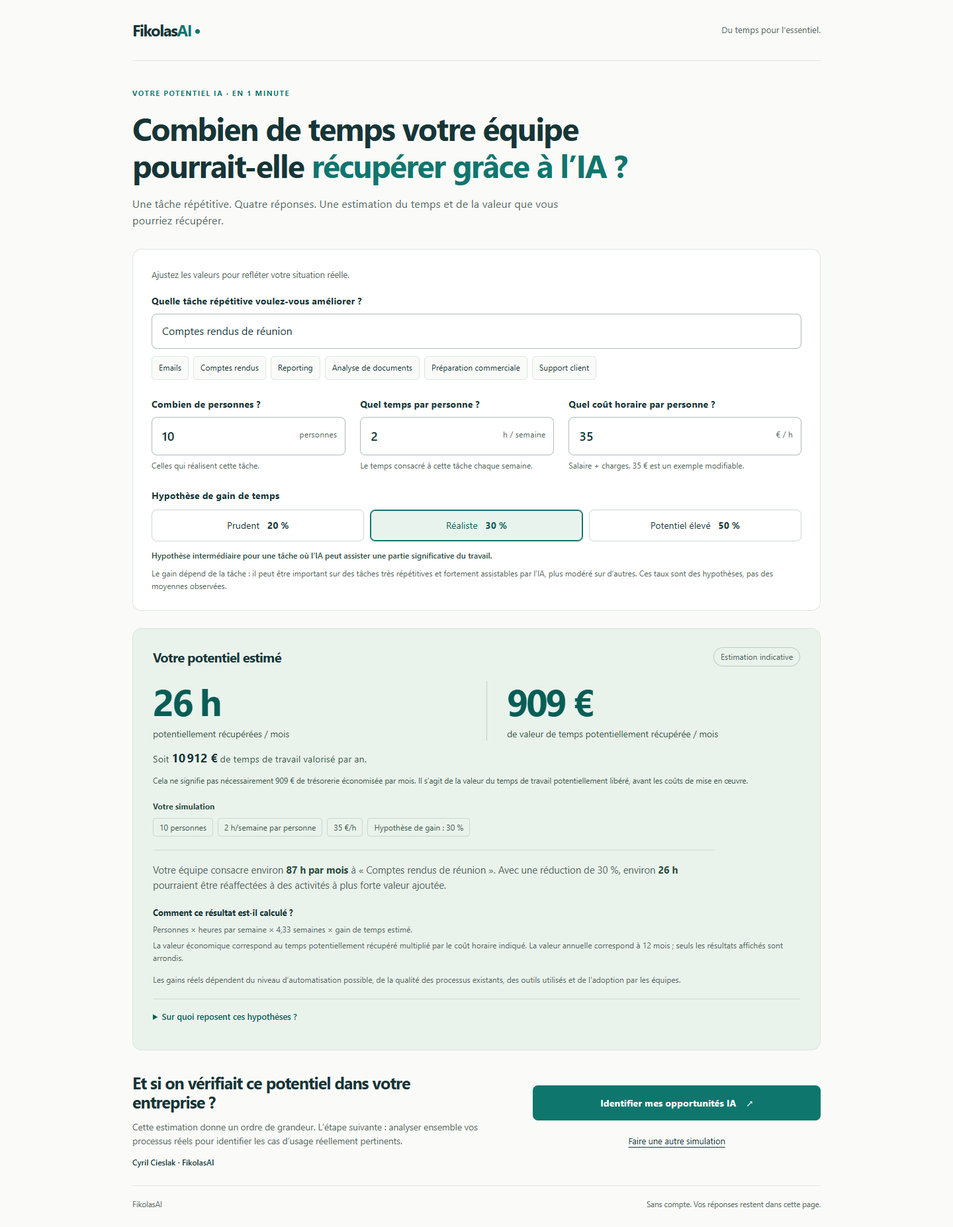
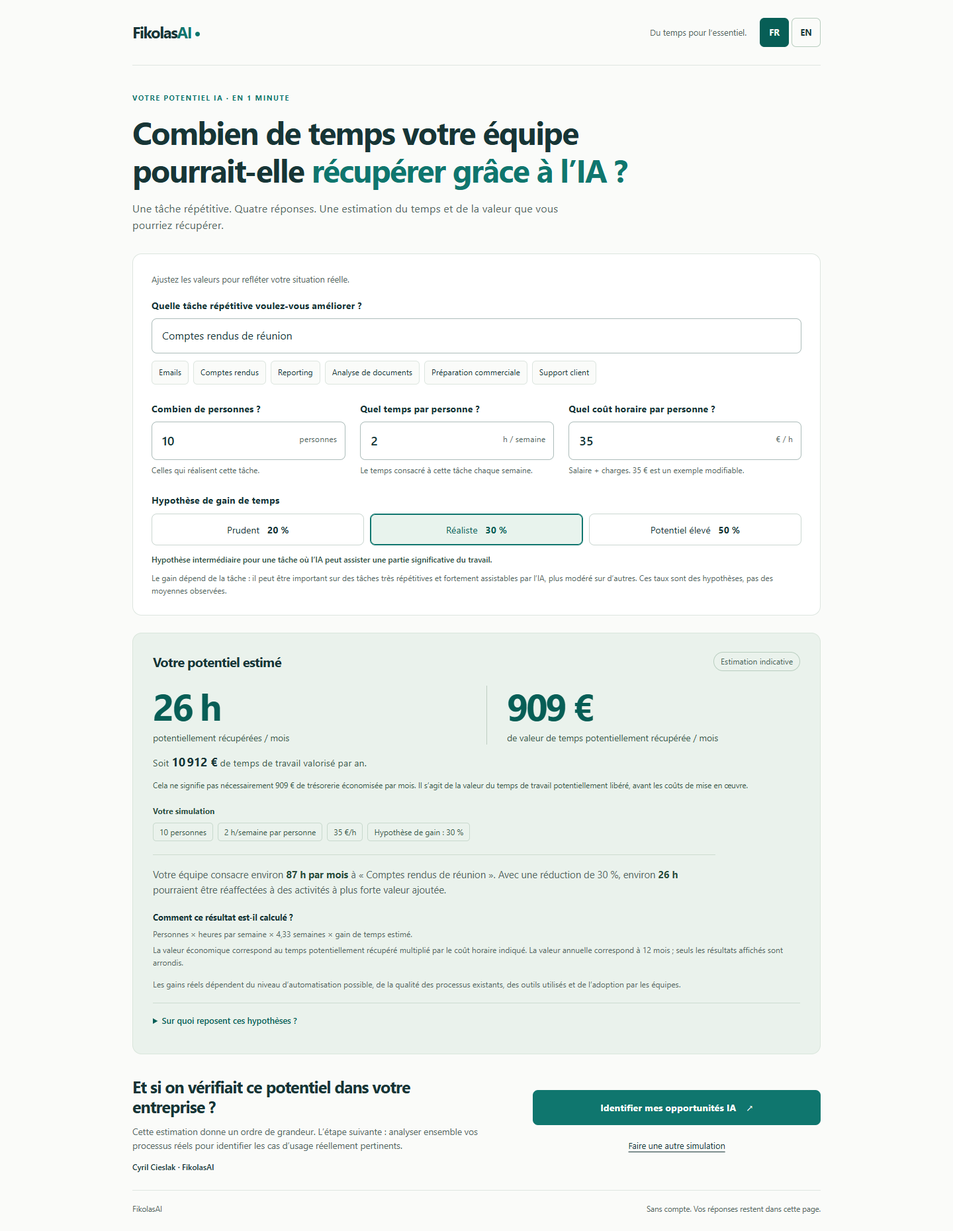
Add French and English calculator with persistent language selection

diff --git a/src/App.tsx b/src/App.tsx
@@ -1,14 +1,28 @@
 import { useEffect, useRef, useState } from 'react';
+import { detectLanguage, rememberLanguage, translate, type Language } from './config/language';
 import { Field } from './components/Field';
 import { brand, CTA_URL, DEFAULT_GAIN, GAIN_OPTIONS, TASK_SUGGESTIONS } from './config/brand';
 import { RESEARCH_SOURCES } from './config/sources';
 import { calculateSavings, parseInput, type NumericField } from './domain/calculations';
 import { trackCalculatorStarted, trackCalculationCompleted, trackCtaClicked } from './lib/analytics';
 const initialValues = { employees: '1', hoursPerWeek: '', hourlyCost: '35' };
-const number = new Intl.NumberFormat('fr-FR', { maximumFractionDigits: 0 });
-const inputNumber = new Intl.NumberFormat('fr-FR', { maximumFractionDigits: 16 });
-function estimate(value: number, unit: string) { return `${value > 0 && value < 1 ? '< 1' : number.format(value)} ${unit}`; }
+
 export default function App() {
+  const [language, setLanguage] = useState<Language>(detectLanguage);
+  const t = (text: string) => translate(language, text);
+  const locale = language === 'fr' ? 'fr-FR' : 'en-GB';
+  const number = new Intl.NumberFormat(locale, { maximumFractionDigits: 0 });
+  const inputNumber = new Intl.NumberFormat(locale, { maximumFractionDigits: 16 });
+  function estimate(value: number, unit: string) {
+    if (value > 0 && value < 1) return language === 'en' && unit === '€' ? '< €1' : '< 1 ' + unit;
+    return language === 'en' && unit === '€' ? '€' + number.format(value) : number.format(value) + ' ' + unit;
+  }
+  function switchLanguage(next: Language) { rememberLanguage(next); setLanguage(next); }
+  useEffect(() => {
+    document.documentElement.lang = language;
+    document.title = language === 'fr' ? 'Calculateur IA : combien de temps votre entreprise peut-elle gagner ? | FikolasAI' : 'AI calculator: how much time could your team recover? | FikolasAI';
+    document.querySelector('meta[name="description"]')?.setAttribute('content', language === 'fr' ? 'Estimez en moins d’une minute combien de temps et de valeur votre équipe pourrait récupérer grâce à l’intelligence artificielle.' : 'Estimate in under a minute how much time and value your team could recover with AI. Transparent assumptions, no account needed.');
+  }, [language]);
   const [task, setTask] = useState('');
   const [values, setValues] = useState(initialValues);
   const [gain, setGain] = useState(DEFAULT_GAIN);
@@ -16,7 +30,7 @@ export default function App() {
   const taskInput = useRef<HTMLInputElement>(null);
   const started = useRef(false);
   const completed = useRef(false);
-  const parsed = { employees: parseInput(values.employees, 'employees'), hoursPerWeek: parseInput(values.hoursPerWeek, 'hoursPerWeek'), hourlyCost: parseInput(values.hourlyCost, 'hourlyCost') };
+  const parsed = { employees: parseInput(values.employees, 'employees', language), hoursPerWeek: parseInput(values.hoursPerWeek, 'hoursPerWeek', language), hourlyCost: parseInput(values.hourlyCost, 'hourlyCost', language) };
   const valid = Object.values(parsed).every(field => !field.error);
   const result = valid ? calculateSavings({ employees: parsed.employees.value, hoursPerWeek: parsed.hoursPerWeek.value, hourlyCost: parsed.hourlyCost.value, efficiencyGain: gain }) : null;
   useEffect(() => {
@@ -31,56 +45,57 @@ export default function App() {
     completed.current = false; taskInput.current?.focus();
   }
   return <>
-    <header className="site-header"><a href={brand.website} aria-label="FikolasAI, accueil">Fikolas<span>AI</span><span className="brand-dot" aria-hidden="true"/></a><span>Du temps pour l’essentiel.</span></header>
+    <header className="site-header"><a href={brand.website} aria-label={t("FikolasAI, accueil")}>Fikolas<span>AI</span><span className="brand-dot" aria-hidden="true"/></a><div className="header-tools"><span>{t("Du temps pour l’essentiel.")}</span><nav className="language-switch" aria-label="Language / Langue"><button type="button" lang="fr" aria-label="Français" aria-pressed={language === 'fr'} onClick={() => switchLanguage('fr')}>FR</button><button type="button" lang="en" aria-label="English" aria-pressed={language === 'en'} onClick={() => switchLanguage('en')}>EN</button></nav></div></header>
     <main>
-      <section className="intro" aria-labelledby="title"><p className="eyebrow">VOTRE POTENTIEL IA · EN 1 MINUTE</p>
-        <h1 id="title">Combien de temps votre équipe pourrait-elle <em>récupérer grâce à l’IA ?</em></h1>
-        <p>Une tâche répétitive. Quatre réponses. Une estimation du temps et de la valeur que vous pourriez récupérer.</p>
+      <section className="intro" aria-labelledby="title"><p className="eyebrow">{t("VOTRE POTENTIEL IA · EN 1 MINUTE")}</p>
+        <h1 id="title">{t("Combien de temps votre équipe pourrait-elle ")}<em>{t("récupérer grâce à l’IA ?")}</em></h1>
+        <p>{t("Une tâche répétitive. Quatre réponses. Une estimation du temps et de la valeur que vous pourriez récupérer.")}</p>
       </section>
-      <section className="calculator" aria-label="Votre simulation">
-        <p className="control-note">Ajustez les valeurs pour refléter votre situation réelle.</p>
-        <div className="task-field"><label htmlFor="task">Quelle tâche répétitive voulez-vous améliorer ?</label>
-          <input ref={taskInput} id="task" maxLength={120} value={task} onChange={e => setTask(e.target.value)} placeholder="Ex. : rédaction d’emails, comptes rendus…" aria-describedby="task-help"/>
-          <span id="task-help" className="sr-only">Le nom est facultatif et ne modifie pas le calcul.</span>
-          <div className="suggestions" aria-label="Suggestions de tâches">{TASK_SUGGESTIONS.map(suggestion => <button type="button" key={suggestion} aria-pressed={task === suggestion} onClick={() => setTask(suggestion)}>{suggestion}</button>)}</div>
+      <section className="calculator" aria-label={t("Votre simulation")}>
+        <p className="control-note">{t("Ajustez les valeurs pour refléter votre situation réelle.")}</p>
+        <div className="task-field"><label htmlFor="task">{t("Quelle tâche répétitive voulez-vous améliorer ?")}</label>
+          <input ref={taskInput} id="task" maxLength={120} value={task} onChange={e => setTask(e.target.value)} placeholder={t("Ex. : rédaction d’emails, comptes rendus…")} aria-describedby="task-help"/>
+          <span id="task-help" className="sr-only">{t("Le nom est facultatif et ne modifie pas le calcul.")}</span>
+          <div className="suggestions" aria-label={t("Suggestions de tâches")}>{TASK_SUGGESTIONS.map(suggestion => <button type="button" key={suggestion} aria-pressed={task === t(suggestion)} onClick={() => setTask(t(suggestion))}>{t(suggestion)}</button>)}</div>
         </div>
         <div className="fields" key={resetKey}>
-          <Field label="Combien de personnes ?" value={values.employees} onChange={value => change('employees', value)} error={parsed.employees.error} unit="personnes" placeholder="Ex. : 5" hint="Celles qui réalisent cette tâche." integer/>
-          <Field label="Quel temps par personne ?" value={values.hoursPerWeek} onChange={value => change('hoursPerWeek', value)} error={parsed.hoursPerWeek.error} unit="h / semaine" placeholder="Ex. : 3" hint="Le temps consacré à cette tâche chaque semaine."/>
-          <Field label="Quel coût horaire par personne ?" value={values.hourlyCost} onChange={value => change('hourlyCost', value)} error={parsed.hourlyCost.error} unit="€ / h" placeholder="Ex. : 35" hint="Salaire + charges. 35 € est un exemple modifiable."/>
+          <Field label={t("Combien de personnes ?")} value={values.employees} onChange={value => change('employees', value)} error={parsed.employees.error} unit={t("personnes")} placeholder={t("Ex. : 5")} hint={t("Celles qui réalisent cette tâche.")} integer/>
+          <Field label={t("Quel temps par personne ?")} value={values.hoursPerWeek} onChange={value => change('hoursPerWeek', value)} error={parsed.hoursPerWeek.error} unit={t("h / semaine")} placeholder={t("Ex. : 3")} hint={t("Le temps consacré à cette tâche chaque semaine.")}/>
+          <Field label={t("Quel coût horaire par personne ?")} value={values.hourlyCost} onChange={value => change('hourlyCost', value)} error={parsed.hourlyCost.error} unit={t("€ / h")} placeholder={t("Ex. : 35")} hint={t("Salaire + charges. 35 € est un exemple modifiable.")}/>
         </div>
-        <fieldset className="gain" aria-describedby="gain-description gain-context"><legend>Hypothèse de gain de temps</legend>
-          <div className="gain-options">{GAIN_OPTIONS.map(option => <label key={option.value}><input type="radio" name="gain" value={option.value} checked={gain === option.value} onChange={() => setGain(option.value)}/><span>{option.label} <strong>{option.value * 100} %</strong></span></label>)}</div>
-          <p id="gain-description" className="gain-description" aria-live="polite">{GAIN_OPTIONS.find(option => option.value === gain)?.description}</p>
-          <p id="gain-context">Le gain dépend de la tâche : il peut être important sur des tâches très répétitives et fortement assistables par l’IA, plus modéré sur d’autres. Ces taux sont des hypothèses, pas des moyennes observées.</p>
+        <fieldset className="gain" aria-describedby="gain-description gain-context"><legend>{t("Hypothèse de gain de temps")}</legend>
+          <div className="gain-options">{GAIN_OPTIONS.map(option => <label key={option.value}><input type="radio" name="gain" value={option.value} checked={gain === option.value} onChange={() => setGain(option.value)}/><span>{t(option.label)} <strong>{option.value * 100} %</strong></span></label>)}</div>
+          <p id="gain-description" className="gain-description" aria-live="polite">{t(GAIN_OPTIONS.find(option => option.value === gain)?.description ?? '')}</p>
+          <p id="gain-context">{t("Le gain dépend de la tâche : il peut être important sur des tâches très répétitives et fortement assistables par l’IA, plus modéré sur d’autres. Ces taux sont des hypothèses, pas des moyennes observées.")}</p>
         </fieldset>
       </section>
       <section className={`results ${result ? 'ready' : ''}`} aria-labelledby="result-title">
-        <div className="result-heading"><h2 id="result-title">Votre potentiel estimé</h2><span className="estimate-badge">Estimation indicative</span></div>
+        <div className="result-heading"><h2 id="result-title">{t("Votre potentiel estimé")}</h2><span className="estimate-badge">{t("Estimation indicative")}</span></div>
         <div aria-live="polite" aria-atomic="true">
           {result ? <>
-            <div className="metrics"><div><strong data-testid="hours">{estimate(result.monthlyHoursSaved, 'h')}</strong><span>potentiellement récupérées / mois</span></div><div><strong data-testid="monthly">{estimate(result.monthlyValueSaved, '€')}</strong><span>de valeur de temps potentiellement récupérée / mois</span></div></div>
-            <p className="annual">Soit <strong data-testid="annual">{estimate(result.annualValueSaved, '€')}</strong> de temps de travail valorisé par an.</p>
-            <p className="capacity-note">Cela ne signifie pas nécessairement {estimate(result.monthlyValueSaved, '€')} de trésorerie économisée par mois. Il s’agit de la valeur du temps de travail potentiellement libéré, avant les coûts de mise en œuvre.</p>
-            <div className="simulation-summary" role="group" aria-label="Données utilisées">
-              <p>Votre simulation</p>
-              <ul><li>{inputNumber.format(parsed.employees.value)} {parsed.employees.value === 1 ? 'personne' : 'personnes'}</li><li>{inputNumber.format(parsed.hoursPerWeek.value)} h/semaine par personne</li><li>{inputNumber.format(parsed.hourlyCost.value)} €/h</li><li>Hypothèse de gain : {gain * 100} %</li></ul>
+            <div className="metrics"><div><strong data-testid="hours">{estimate(result.monthlyHoursSaved, 'h')}</strong><span>{t("potentiellement récupérées / mois")}</span></div><div><strong data-testid="monthly">{estimate(result.monthlyValueSaved, '€')}</strong><span>{t("de valeur de temps potentiellement récupérée / mois")}</span></div></div>
+            <p className="annual">{t("Soit ")}<strong data-testid="annual">{estimate(result.annualValueSaved, '€')}</strong>{t(" de temps de travail valorisé par an.")}</p>
+            <p className="capacity-note">{t("Cela ne signifie pas nécessairement ")}{estimate(result.monthlyValueSaved, '€')}{t(" de trésorerie économisée par mois. Il s’agit de la valeur du temps de travail potentiellement libéré, avant les coûts de mise en œuvre.")}</p>
+            <div className="simulation-summary" role="group" aria-label={t("Données utilisées")}>
+              <p>{t("Votre simulation")}</p>
+              <ul><li>{inputNumber.format(parsed.employees.value)} {t(parsed.employees.value === 1 ? 'personne' : 'personnes')}</li><li>{inputNumber.format(parsed.hoursPerWeek.value)}{t(" h/semaine par personne")}</li><li>{inputNumber.format(parsed.hourlyCost.value)} €/h</li><li>{t("Hypothèse de gain : ")}{gain * 100} %</li></ul>
             </div>
-            <p className="context">Votre équipe consacre environ <strong>{estimate(result.monthlyHoursCurrent, 'h')} par mois</strong> à {task.trim() ? <>« {task.trim()} »</> : 'cette tâche'}. Avec une réduction de {gain * 100} %, environ <strong>{estimate(result.monthlyHoursSaved, 'h')}</strong> pourraient être réaffectées à des activités à plus forte valeur ajoutée.</p>
-          </> : <p className="empty-result">Renseignez les trois valeurs ci-dessus pour découvrir votre potentiel. Le résultat s’actualise automatiquement.</p>}
+            <p className="context">{t("Votre équipe consacre environ ")}<strong>{estimate(result.monthlyHoursCurrent, 'h')}{t(" par mois")}</strong>{t(" à ")}{task.trim() ? <>« {task.trim()} »</> : t('cette tâche')}{t(". Avec une réduction de ")}{gain * 100}{t(" %, environ ")}<strong>{estimate(result.monthlyHoursSaved, 'h')}</strong>{t(" pourraient être réaffectées à des activités à plus forte valeur ajoutée.")}</p>
+          </> : <p className="empty-result">{t("Renseignez les trois valeurs ci-dessus pour découvrir votre potentiel. Le résultat s’actualise automatiquement.")}</p>}
         </div>
-        <div className="calculation-explanation"><h3>Comment ce résultat est-il calculé ?</h3>
-          <p>Personnes × heures par semaine × 4,33 semaines × gain de temps estimé.</p>
-          <p>La valeur économique correspond au temps potentiellement récupéré multiplié par le coût horaire indiqué. La valeur annuelle correspond à 12 mois ; seuls les résultats affichés sont arrondis.</p>
+        <div className="calculation-explanation"><h3>{t("Comment ce résultat est-il calculé ?")}</h3>
+          <p>{t("Personnes × heures par semaine × 4,33 semaines × gain de temps estimé.")}</p>
+          <p>{t("La valeur économique correspond au temps potentiellement récupéré multiplié par le coût horaire indiqué. La valeur annuelle correspond à 12 mois ; seuls les résultats affichés sont arrondis.")}</p>
         </div>
-        <p className="credibility-note">Les gains réels dépendent du niveau d’automatisation possible, de la qualité des processus existants, des outils utilisés et de l’adoption par les équipes.</p>
-        <details className="research"><summary>Sur quoi reposent ces hypothèses ?</summary>
-          <div className="research-content"><p>Les gains de productivité observés avec l’IA varient fortement selon les tâches et les métiers. Les taux de 20 %, 30 % et 50 % sont des choix de simulation : ces études ne prouvent pas un gain universel à ces niveaux. Une hausse de productivité n’équivaut pas directement à la même réduction du temps de travail.</p>
-            <ul>{RESEARCH_SOURCES.map(source => <li key={source.url}><a href={source.url} target="_blank" rel="noopener noreferrer">{source.title}<span className="sr-only"> (nouvel onglet)</span><span aria-hidden="true"> ↗</span></a><p>{source.context}</p></li>)}</ul>
+        <p className="credibility-note">{t("Les gains réels dépendent du niveau d’automatisation possible, de la qualité des processus existants, des outils utilisés et de l’adoption par les équipes.")}</p>
+        <details className="research"><summary>{t("Sur quoi reposent ces hypothèses ?")}</summary>
+          <div className="research-content"><p>{t("Les gains de productivité observés avec l’IA varient fortement selon les tâches et les métiers. Les taux de 20 %, 30 % et 50 % sont des choix de simulation : ces études ne prouvent pas un gain universel à ces niveaux. Une hausse de productivité n’équivaut pas directement à la même réduction du temps de travail.")}</p>
+            <ul>{RESEARCH_SOURCES.map(source => <li key={source.url}><a href={source.url} target="_blank" rel="noopener noreferrer">{t(source.title)}<span className="sr-only">{t(" (nouvel onglet)")}</span><span aria-hidden="true"> ↗</span></a><p>{t(source.context)}</p></li>)}</ul>
           </div>
         </details>
       </section>
-      <section className="contact" aria-labelledby="contact-title"><div><h2 id="contact-title">Et si on vérifiait ce potentiel dans votre entreprise ?</h2><p>Cette estimation donne un ordre de grandeur. L’étape suivante : analyser ensemble vos processus réels pour identifier les cas d’usage réellement pertinents.</p><p className="signature">Cyril Cieslak · FikolasAI</p></div><div className="contact-actions"><a className="primary" href={CTA_URL} onClick={trackCtaClicked}>Identifier mes opportunités IA <span aria-hidden="true">↗</span></a><button type="button" className="reset" onClick={reset}>Faire une autre simulation</button></div></section>
-    </main><footer>FikolasAI <span>Sans compte. Vos réponses restent dans cette page.</span></footer>
+      <section className="contact" aria-labelledby="contact-title"><div><h2 id="contact-title">{t("Et si on vérifiait ce potentiel dans votre entreprise ?")}</h2><p>{t("Cette estimation donne un ordre de grandeur. L’étape suivante : analyser ensemble vos processus réels pour identifier les cas d’usage réellement pertinents.")}</p><p className="signature">Cyril Cieslak · FikolasAI</p></div><div className="contact-actions"><a className="primary" href={language === 'en' && CTA_URL.startsWith('mailto:') ? CTA_URL.replace(/([?&]subject=)[^&]*/, '$1Explore%20my%20AI%20opportunities') : CTA_URL} onClick={trackCtaClicked}>{t("Identifier mes opportunités IA")}<span aria-hidden="true">↗</span></a><button type="button" className="reset" onClick={reset}>{t("Faire une autre simulation")}</button></div></section>
+    </main><footer>FikolasAI <span>{t("Sans compte. Vos réponses restent dans cette page.")}</span></footer>
   </>;
 }
+

diff --git a/src/config/language.ts b/src/config/language.ts
@@ -1,0 +1,73 @@
+export type Language = 'fr' | 'en';
+export const english: Record<string, string> = {
+  'FikolasAI, accueil': 'FikolasAI, home',
+  'Du temps pour l’essentiel.': 'More time for what matters.',
+  'VOTRE POTENTIEL IA · EN 1 MINUTE': 'YOUR AI POTENTIAL · IN 1 MINUTE',
+  'Combien de temps votre équipe pourrait-elle ': 'How much time could your team ',
+  'récupérer grâce à l’IA ?': 'get back with AI?',
+  'Une tâche répétitive. Quatre réponses. Une estimation du temps et de la valeur que vous pourriez récupérer.': 'One repetitive task. Four answers. An estimate of the time and value you could recover.',
+  'Votre simulation': 'Your simulation',
+  'Ajustez les valeurs pour refléter votre situation réelle.': 'Adjust the values to reflect your own situation.',
+  'Quelle tâche répétitive voulez-vous améliorer ?': 'Which repetitive task would you like to improve?',
+  'Ex. : rédaction d’emails, comptes rendus…': 'E.g. writing emails, meeting notes…',
+  'Le nom est facultatif et ne modifie pas le calcul.': 'The task name is optional and does not affect the calculation.',
+  'Suggestions de tâches': 'Task suggestions',
+  'Emails': 'Emails', 'Comptes rendus': 'Meeting notes', 'Reporting': 'Reporting',
+  'Analyse de documents': 'Document analysis', 'Préparation commerciale': 'Sales preparation', 'Support client': 'Customer support',
+  'Combien de personnes ?': 'How many people?', 'personnes': 'people', 'personne': 'person',
+  'Ex. : 5': 'E.g. 5', 'Celles qui réalisent cette tâche.': 'People who regularly perform this task.',
+  'Quel temps par personne ?': 'How much time per person?', 'h / semaine': 'h / week', 'Ex. : 3': 'E.g. 3',
+  'Le temps consacré à cette tâche chaque semaine.': 'Time spent on this task each week.',
+  'Quel coût horaire par personne ?': 'What is the hourly cost per person?', 'Ex. : 35': 'E.g. 35',
+  'Salaire + charges. 35 € est un exemple modifiable.': 'Salary + employer costs. €35 is an editable example.',
+  'Hypothèse de gain de temps': 'Assumed time saving',
+  'Prudent': 'Conservative', 'Réaliste': 'Realistic', 'Potentiel élevé': 'High potential',
+  'Hypothèse prudente pour une première estimation.': 'A conservative assumption for an initial estimate.',
+  'Hypothèse intermédiaire pour une tâche où l’IA peut assister une partie significative du travail.': 'A middle-range assumption for a task where AI can assist with a significant part of the work.',
+  'Hypothèse haute, surtout pertinente pour des tâches répétitives et fortement automatisables.': 'A high assumption, most relevant to repetitive tasks with strong automation potential.',
+  'Le gain dépend de la tâche : il peut être important sur des tâches très répétitives et fortement assistables par l’IA, plus modéré sur d’autres. Ces taux sont des hypothèses, pas des moyennes observées.': 'Savings depend on the task: they may be substantial for highly repetitive work well suited to AI assistance, and more modest for other tasks. These rates are assumptions, not observed averages.',
+  'Votre potentiel estimé': 'Your estimated potential', 'Estimation indicative': 'Indicative estimate',
+  'potentiellement récupérées / mois': 'potentially recovered / month',
+  'de valeur de temps potentiellement récupérée / mois': 'in potential value of recovered time / month',
+  'Soit ': 'Equivalent to ', ' de temps de travail valorisé par an.': ' in working-time value per year.',
+  'Cela ne signifie pas nécessairement ': 'This does not necessarily mean ',
+  ' de trésorerie économisée par mois. Il s’agit de la valeur du temps de travail potentiellement libéré, avant les coûts de mise en œuvre.': ' in cash savings per month. It is the value of working time potentially freed up, before implementation costs.',
+  'Données utilisées': 'Inputs used', ' h/semaine par personne': ' h/week per person', 'Hypothèse de gain : ': 'Assumed saving: ',
+  'Votre équipe consacre environ ': 'Your team currently spends around ', ' par mois': ' per month', ' à ': ' on ',
+  'cette tâche': 'this task', '. Avec une réduction de ': '. With a reduction of ', ' %, environ ': '%, around ',
+  ' pourraient être réaffectées à des activités à plus forte valeur ajoutée.': ' could be redirected towards higher-value activities.',
+  'Renseignez les trois valeurs ci-dessus pour découvrir votre potentiel. Le résultat s’actualise automatiquement.': 'Enter the three values above to discover your potential. Results update automatically.',
+  'Comment ce résultat est-il calculé ?': 'How is this result calculated?',
+  'Personnes × heures par semaine × 4,33 semaines × gain de temps estimé.': 'People × hours per week × 4.33 weeks × assumed time saving.',
+  'La valeur économique correspond au temps potentiellement récupéré multiplié par le coût horaire indiqué. La valeur annuelle correspond à 12 mois ; seuls les résultats affichés sont arrondis.': 'The economic value is the time potentially recovered multiplied by the hourly cost entered. The annual value covers 12 months; only displayed results are rounded.',
+  'Les gains réels dépendent du niveau d’automatisation possible, de la qualité des processus existants, des outils utilisés et de l’adoption par les équipes.': 'Actual savings depend on what can be automated, the quality of existing processes, the tools used and team adoption.',
+  'Sur quoi reposent ces hypothèses ?': 'What informs these assumptions?',
+  'Les gains de productivité observés avec l’IA varient fortement selon les tâches et les métiers. Les taux de 20 %, 30 % et 50 % sont des choix de simulation : ces études ne prouvent pas un gain universel à ces niveaux. Une hausse de productivité n’équivaut pas directement à la même réduction du temps de travail.': 'Observed AI productivity gains vary widely across tasks and occupations. The 20%, 30% and 50% rates are simulation choices: these studies do not establish universal gains at those levels. A productivity increase does not directly translate into an equal reduction in working time.',
+  ' (nouvel onglet)': ' (new tab)',
+  'NBER · Assistance IA dans le support client': 'NBER · AI assistance in customer support',
+  'Generative AI at Work (2023). Des effets différents selon l’expérience des agents, dans une entreprise de support client.': 'Generative AI at Work (2023). Effects varied with agent experience within one customer-support company.',
+  'Harvard / BCG · Travail de consultants': 'Harvard / BCG · Consultants’ work',
+  'Étude de 2023 : des améliorations sur certaines tâches, mais aussi des erreurs plus fréquentes sur une tâche au-delà des capacités de l’IA.': '2023 study: improvements on some tasks, but also more frequent errors on a task beyond the AI’s capabilities.',
+  'Microsoft Research · Premiers travaux sur Copilot': 'Microsoft Research · Early Copilot research',
+  'Rapport de 2023 (PDF, en anglais), réalisé par l’éditeur : premiers résultats sur des tâches ciblées, sans mesurer la productivité globale de tous les métiers.': '2023 report (PDF, in English), produced by the vendor: early findings on selected tasks, not a measure of overall productivity across all occupations.',
+  'Et si on vérifiait ce potentiel dans votre entreprise ?': 'What if we explored this potential in your business?',
+  'Cette estimation donne un ordre de grandeur. L’étape suivante : analyser ensemble vos processus réels pour identifier les cas d’usage réellement pertinents.': 'This estimate gives you a sense of scale. The next step: look at your actual processes together to identify the use cases that make sense for your business.',
+  'Identifier mes opportunités IA': 'Explore my AI opportunities',
+  'Faire une autre simulation': 'Start another simulation',
+  'Sans compte. Vos réponses restent dans cette page.': 'No account needed. Your answers stay on this page.',
+  'Renseignez ce champ pour voir votre estimation.': 'Complete this field to see your estimate.',
+  'Saisissez un nombre supérieur à 0.': 'Enter a number greater than 0.',
+  'Saisissez un nombre entier de personnes.': 'Enter a whole number of people.',
+};
+export function translate(language: Language, text: string) { return language === 'en' ? english[text] ?? text : text; }
+export function detectLanguage(): Language {
+  const query = new URLSearchParams(window.location.search).get('lang');
+  if (query === 'fr' || query === 'en') return query;
+  try { const saved = localStorage.getItem('fikolasai:language'); if (saved === 'fr' || saved === 'en') return saved; } catch { /* Storage may be disabled. */ }
+  return navigator.language.toLowerCase().startsWith('en') ? 'en' : 'fr';
+}
+export function rememberLanguage(language: Language) {
+  const url = new URL(window.location.href); url.searchParams.set('lang', language);
+  window.history.replaceState(null, '', url);
+  try { localStorage.setItem('fikolasai:language', language); } catch { /* Preference still works during this visit. */ }
+}

diff --git a/tests/e2e/calculator.spec.ts b/tests/e2e/calculator.spec.ts
@@ -53,6 +53,8 @@ test('erreurs locales, virgules, petits montants et grandes valeurs', async ({ p
 test('navigation au clavier et sélection native des hypothèses', async ({ page }) => {
   await page.goto('./');
   await page.keyboard.press('Tab'); await expect(page.getByRole('link', { name: 'FikolasAI, accueil' })).toBeFocused();
+  await page.keyboard.press('Tab'); await expect(page.getByRole('button', { name: 'Français', exact: true })).toBeFocused();
+  await page.keyboard.press('Tab'); await expect(page.getByRole('button', { name: 'English', exact: true })).toBeFocused();
   await page.keyboard.press('Tab'); await expect(page.getByLabel('Quelle tâche répétitive voulez-vous améliorer ?')).toBeFocused();
   await page.keyboard.press('Tab'); await expect(page.getByRole('button', { name: 'Emails', exact: true })).toBeFocused();
   await page.keyboard.press('Enter'); await expect(page.getByLabel('Quelle tâche répétitive voulez-vous améliorer ?')).toHaveValue('Emails');
@@ -116,4 +118,49 @@ test('réassurance cohérente avec la saisie et sources accessibles à la demand
   await page.getByLabel('Quel temps par personne ?').fill('');
   await expect(summary).toHaveCount(0);
   await expect(page.locator('.capacity-note')).toHaveCount(0);
+});
+
+test('anglais complet, changement sans perte, préférence et lien partageable', async ({ page }) => {
+  await page.goto('./'); await example(page);
+  await page.getByRole('button', { name: 'English', exact: true }).click();
+  await expect(page.locator('html')).toHaveAttribute('lang', 'en');
+  await expect(page.getByLabel('Which repetitive task would you like to improve?')).toHaveValue('Comptes rendus de réunion');
+  await expect(page.getByTestId('monthly')).toHaveText('€909');
+  await expect(page.getByTestId('annual')).toHaveText('€10,912');
+  await expect(page.locator('.capacity-note')).toContainText('€909 in cash savings');
+  await expect(page.getByRole('group', { name: 'Inputs used' })).toContainText('2 h/week per person');
+  await expect(page.getByRole('link', { name: 'Explore my AI opportunities' })).toHaveAttribute('href', /subject=Explore/);
+  await page.getByLabel('How much time per person?').fill('169');
+  await page.getByLabel('How much time per person?').press('Tab');
+  await expect(page.getByText('Maximum: 168 hours per week.')).toBeVisible();
+  await page.getByRole('button', { name: 'Français', exact: true }).click();
+  await expect(page.getByText('Maximum : 168 heures par semaine.')).toBeVisible();
+  await page.goto('./?lang=en');
+  await expect(page.locator('html')).toHaveAttribute('lang', 'en');
+  await page.getByRole('button', { name: 'English', exact: true }).click();
+  await page.goto('./');
+  await expect(page.locator('html')).toHaveAttribute('lang', 'en');
+  await page.getByRole('button', { name: 'Start another simulation' }).click();
+  await expect(page.locator('html')).toHaveAttribute('lang', 'en');
+});
+
+for (const lang of ['fr', 'en']) for (const width of [360, 390]) {
+  test(`bilingue ${lang} ${width}px`, async ({ page }) => {
+    await page.setViewportSize({ width, height: 900 });
+    await page.goto(`./?lang=${lang}`);
+    await page.locator('.fields input').nth(1).fill('2');
+    await page.locator('summary').click();
+    expect(await page.evaluate(() => document.documentElement.scrollWidth <= innerWidth)).toBe(true);
+    await page.screenshot({ path: `docs/images/bilingual-${lang}-${width}.png`, fullPage: true });
+  });
+}
+test.describe('langue du navigateur', () => {
+  test.use({ locale: 'en-US' });
+  test('anglais automatique et priorité au lien français', async ({ page }) => {
+    await page.goto('./');
+    await expect(page.locator('html')).toHaveAttribute('lang', 'en');
+    await expect(page.getByRole('heading', { level: 1 })).toContainText('get back with AI?');
+    await page.goto('./?lang=fr');
+    await expect(page.locator('html')).toHaveAttribute('lang', 'fr');
+  });
 });

diff --git a/src/domain/calculations.ts b/src/domain/calculations.ts
@@ -1,8 +1,9 @@
+import { translate, type Language } from '../config/language';
 export const WEEKS_PER_MONTH = 4.33;
 export const limits = { employees: 100_000, hoursPerWeek: 168, hourlyCost: 100_000 } as const;
 export type NumericField = keyof typeof limits;
 export type SavingsInput = Record<NumericField, number> & { efficiencyGain: number };
-export function parseInput(value: string, field: NumericField): { value: number; error?: string } {
+export function parseInput(value: string, field: NumericField, language: Language = 'fr'): { value: number; error?: string } {
   const text = value.trim();
   const valueNumber = /^\d+(?:[.,]\d+)?$/.test(text) ? Number(text.replace(',', '.')) : NaN;
   let error: string | undefined;
@@ -10,7 +11,8 @@ export function parseInput(value: string, field: NumericField): { value: number;
   else if (!Number.isFinite(valueNumber) || valueNumber <= 0) error = 'Saisissez un nombre supérieur à 0.';
   else if (field === 'employees' && !Number.isInteger(valueNumber)) error = 'Saisissez un nombre entier de personnes.';
   else if (valueNumber > limits[field]) error = `Maximum : ${limits[field].toLocaleString('fr-FR')}${field === 'hoursPerWeek' ? ' heures par semaine' : field === 'employees' ? ' personnes' : ' € par heure'}.`;
-  return { value: valueNumber, error };
+  if (valueNumber > limits[field] && error?.startsWith('Maximum') && language === 'en') error = `Maximum: ${limits[field].toLocaleString('en-GB')}${field === 'hoursPerWeek' ? ' hours per week' : field === 'employees' ? ' people' : ' euros per hour'}.`;
+  return { value: valueNumber, error: error ? translate(language, error) : undefined };
 }
 /** efficiencyGain is a fraction from 0 to 1. Never round intermediate results. */
 export function calculateSavings(input: SavingsInput) {
@@ -23,3 +25,4 @@ export function calculateSavings(input: SavingsInput) {
   const monthlyValueSaved = monthlyHoursSaved * input.hourlyCost;
   return { monthlyHoursCurrent, monthlyHoursSaved, monthlyValueSaved, annualValueSaved: monthlyValueSaved * 12 };
 }
+

diff --git a/playwright.config.ts b/playwright.config.ts
@@ -1,12 +1,13 @@
 import { defineConfig } from '@playwright/test';
 const basePath = process.env.E2E_BASE_PATH || '/fikolasai-gains-ia/';
-const baseURL = `http://127.0.0.1:4173${basePath}`;
+const port = process.env.E2E_PORT || '4173';
+const baseURL = `http://127.0.0.1:${port}${basePath}`;
 export default defineConfig({
   testDir: './tests/e2e', fullyParallel: false, workers: 1, timeout: 60_000,
   reporter: [['list'], ['html', { open: 'never' }]],
-  use: { baseURL, viewport: { width: 1440, height: 1000 },
+  use: { baseURL, locale: 'fr-FR', viewport: { width: 1440, height: 1000 },
     launchOptions: process.env.PLAYWRIGHT_CHROME_PATH ? { executablePath: process.env.PLAYWRIGHT_CHROME_PATH } : {},
     trace: 'retain-on-failure', screenshot: 'only-on-failure' },
-  webServer: { command: 'node node_modules/vite/bin/vite.js preview --host 127.0.0.1 --port 4173 --strictPort', env: { VITE_BASE_PATH: basePath }, url: baseURL, reuseExistingServer: !process.env.CI },
+  webServer: { command: `node node_modules/vite/bin/vite.js preview --host 127.0.0.1 --port ${port} --strictPort`, env: { VITE_BASE_PATH: basePath }, url: baseURL, reuseExistingServer: !process.env.CI },
 });
 

diff --git a/src/styles.css b/src/styles.css
@@ -563,3 +563,10 @@ footer>span {
 @media(max-width: 760px) {
   .gain-options span { height: 100%; }
 }
+.header-tools { display: flex; align-items: center; gap: 20px; }
+.header-tools > span { font-size: .8rem; color: #526762; }
+.language-switch { display: flex; gap: 4px; }
+.language-switch button { min-width: 44px; min-height: 44px; border: 1px solid #b8cdbf; border-radius: 7px; background: transparent; font-size: .8rem; font-weight: 650; }
+.language-switch button[aria-pressed=true] { color: #fff; background: #075e56; border-color: #075e56; }
+.language-switch button:hover { background: #e3eee7; color: #075e56; }
+@media(max-width: 600px) { .header-tools > span { display: none; } }

diff --git a/README.md b/README.md
@@ -62,3 +62,12 @@ Publication : voir [DEPLOIEMENT.md](docs/DEPLOIEMENT.md). Dépôt indépendant :
 Le taux de 50 % s’appelle « Potentiel élevé ». Chaque choix affiche une explication adaptée. Le résultat présente un badge d’estimation, les données utilisées, la formule et la distinction entre valeur du temps et trésorerie. Les références sont repliées par défaut et configurables. Le CTA propose de vérifier le potentiel sur les processus réels. Les formules sont inchangées.
 
 [Capture des explications et sources](docs/images/reassurance.jpg).
+
+## Français / English
+
+Site : https://cyrilandro.github.io/fikolasai-gains-ia/
+Liens directs : [Français](https://cyrilandro.github.io/fikolasai-gains-ia/?lang=fr) · [English](https://cyrilandro.github.io/fikolasai-gains-ia/?lang=en).
+
+Le sélecteur FR / EN conserve la simulation en cours. Priorité : langue du lien, préférence enregistrée, puis langue du navigateur (anglais si en*, français sinon). Seule la préférence de langue est enregistrée sous `fikolasai:language` ; les réponses restent en mémoire. La devise reste l’euro. Les nombres, erreurs, explications, sources et sujet du contact sont traduits. Textes anglais : `src/config/language.ts`.
+
+Vérification du 7 octobre 2026 : 33 tests unitaires et 14 parcours navigateur réussis ; build et lint réussis. Tests supplémentaires : changement de langue, conservation des saisies, priorité du lien, préférence, détection anglaise et absence de débordement FR/EN à 360 et 390 px.
